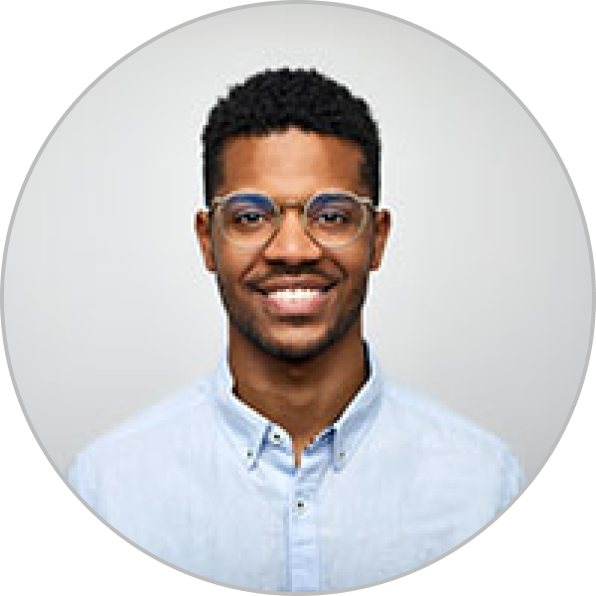
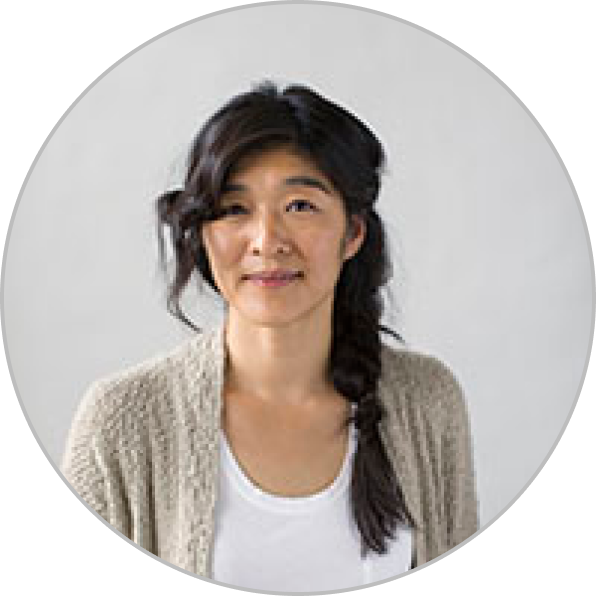
added3

diff --git a/index.html b/index.html
@@ -6,6 +6,7 @@
     <meta name="viewport" content="width=device-width, initial-scale=1.0">
     <title>Honda CBR</title>
     <link rel="shortcut icon" href="images/favicon.jpg" type="image/x-icon">
+    <script src="https://kit.fontawesome.com/d83ea1b652.js" crossorigin="anonymous"></script>
     <link href="https://cdn.jsdelivr.net/npm/bootstrap@5.0.2/dist/css/bootstrap.min.css" rel="stylesheet" integrity="sha384-EVSTQN3/azprG1Anm3QDgpJLIm9Nao0Yz1ztcQTwFspd3yD65VohhpuuCOmLASjC" crossorigin="anonymous">
 </head>
 <body>
@@ -60,15 +61,98 @@
             </div>
             <div class="row my-4 ms-auto">
                 <div class="col-md-4 col-lg-4 col-sm-12 col-12">
-                    <img src="images/bike-4-2.png" alt="" class="d-block w-100" style="filter: grayscale(100%);">
+                    <img src="images/feature-bike.png" alt="" class="d-block w-100" style="filter: grayscale(100%);">
                 </div>
                 <div class="col-md-4 col-lg-4 col-sm-12 col-12">
-                    <img src="images/bike-4-2.png" alt="" class="d-block w-100">
+                    <img src="images/feature-bike.png" alt="" class="d-block w-100">
                 </div>
                 <div class="col-md-4 col-lg-4 col-sm-12 col-12">
-                    <img src="images/bike-4-2.png" alt="" class="d-block w-100" style="filter: grayscale(100%);">
+                    <img src="images/feature-bike.png" alt="" class="d-block w-100" style="filter: grayscale(100%);">
                 </div>
             </div>
+        </section>
+        <!--  client review section -->
+        <section class="container my-5">
+            <div class="text-center pb-3 pt-3">
+                <h1>Clients <span style="color: #E76F51;">Review</span></h1>
+            </div>
+            <div class="row row-cols-1 row-cols-md-3 row-cols-lg-3 g-4 pt-3">
+                <div class="col">
+                  <div class="card h-100">
+                    <div class="px-5 pt-4">
+                        <img src="images/user-1.png" class="card-img-top" alt="...">
+                    </div>
+                    <div class="card-body">
+                      <p class="card-text text-center">Riding experience, looks, comfort is excellent and battery is good.</p>
+                      <div class="d-flex justify-content-center" style="color: orange;">
+                        <i class="fas fa-star"></i>
+                        <i class="fas fa-star"></i>
+                        <i class="fas fa-star"></i>
+                        <i class="fas fa-star"></i>
+                        <i class="fas fa-star-half-alt"></i>
+                    </div>
+                    <div class="text-center">
+                        <p class="pt-3 mb-2 text-info fw-bold">Alexa Sia</p>
+                    </div>
+                    <div class="text-center fw-normal fs-6 mt-0">
+                        <p>Engineer</p>
+                    </div>
+                    </div>
+                    
+                  </div>
+                </div>
+                <div class="col">
+                  <div class="card h-100">
+                    <div class=" px-5 pt-4">
+                        <img src="images/user-2.png" class="card-img-top" alt="...">
+                    </div>
+                    <div class="card-body">
+                  
+                      <p class="card-text text-center">Looks are good & loved the old look.Performance is also good.</p>
+                    <div class="d-flex justify-content-center" style="color: orange;">
+                        <i class="fas fa-star"></i>
+                        <i class="fas fa-star"></i>
+                        <i class="fas fa-star"></i>
+                        <i class="fas fa-star"></i>
+                        <i class="far fa-star"></i>
+                    </div>
+                    <div class="text-center">
+                        <p class="pt-3 mb-2 text-info fw-bold">James Bond</p>
+                    </div>
+                    <div class="text-center fw-normal fs-6 mt-0">
+                        <p>Banker</p>
+                    </div>
+                    </div>
+                    
+                  </div>
+                </div>
+                <div class="col">
+                  <div class="card h-100">
+                    <div class="px-5 pt-4"> 
+                        <img src="images/user-3.png" class="card-img-top" alt="...">
+                    </div>
+                   
+                    <div class="card-body">
+                    
+                      <p class="card-text text-center">Budget friendly,riding experience was awesome, look was eye catchy.</p>
+                      <div class="d-flex justify-content-center" style="color: orange;">
+                        <i class="fas fa-star"></i>
+                        <i class="fas fa-star"></i>
+                        <i class="fas fa-star"></i>
+                        <i class="fas fa-star"></i>
+                        <i class="far fa-star"></i>
+                      </div>
+                      <div class="text-center">
+                        <p class="pt-3 mb-2 text-info fw-bold">Mary Walker</p>
+                    </div>
+                    <div class="text-center fw-normal fs-6 mt-0">
+                        <p>Rider</p>
+                    </div>
+                    </div>
+                  
+                  </div>
+                </div>
+              </div>
         </section>
     </main>
     <!-- footer start -->
